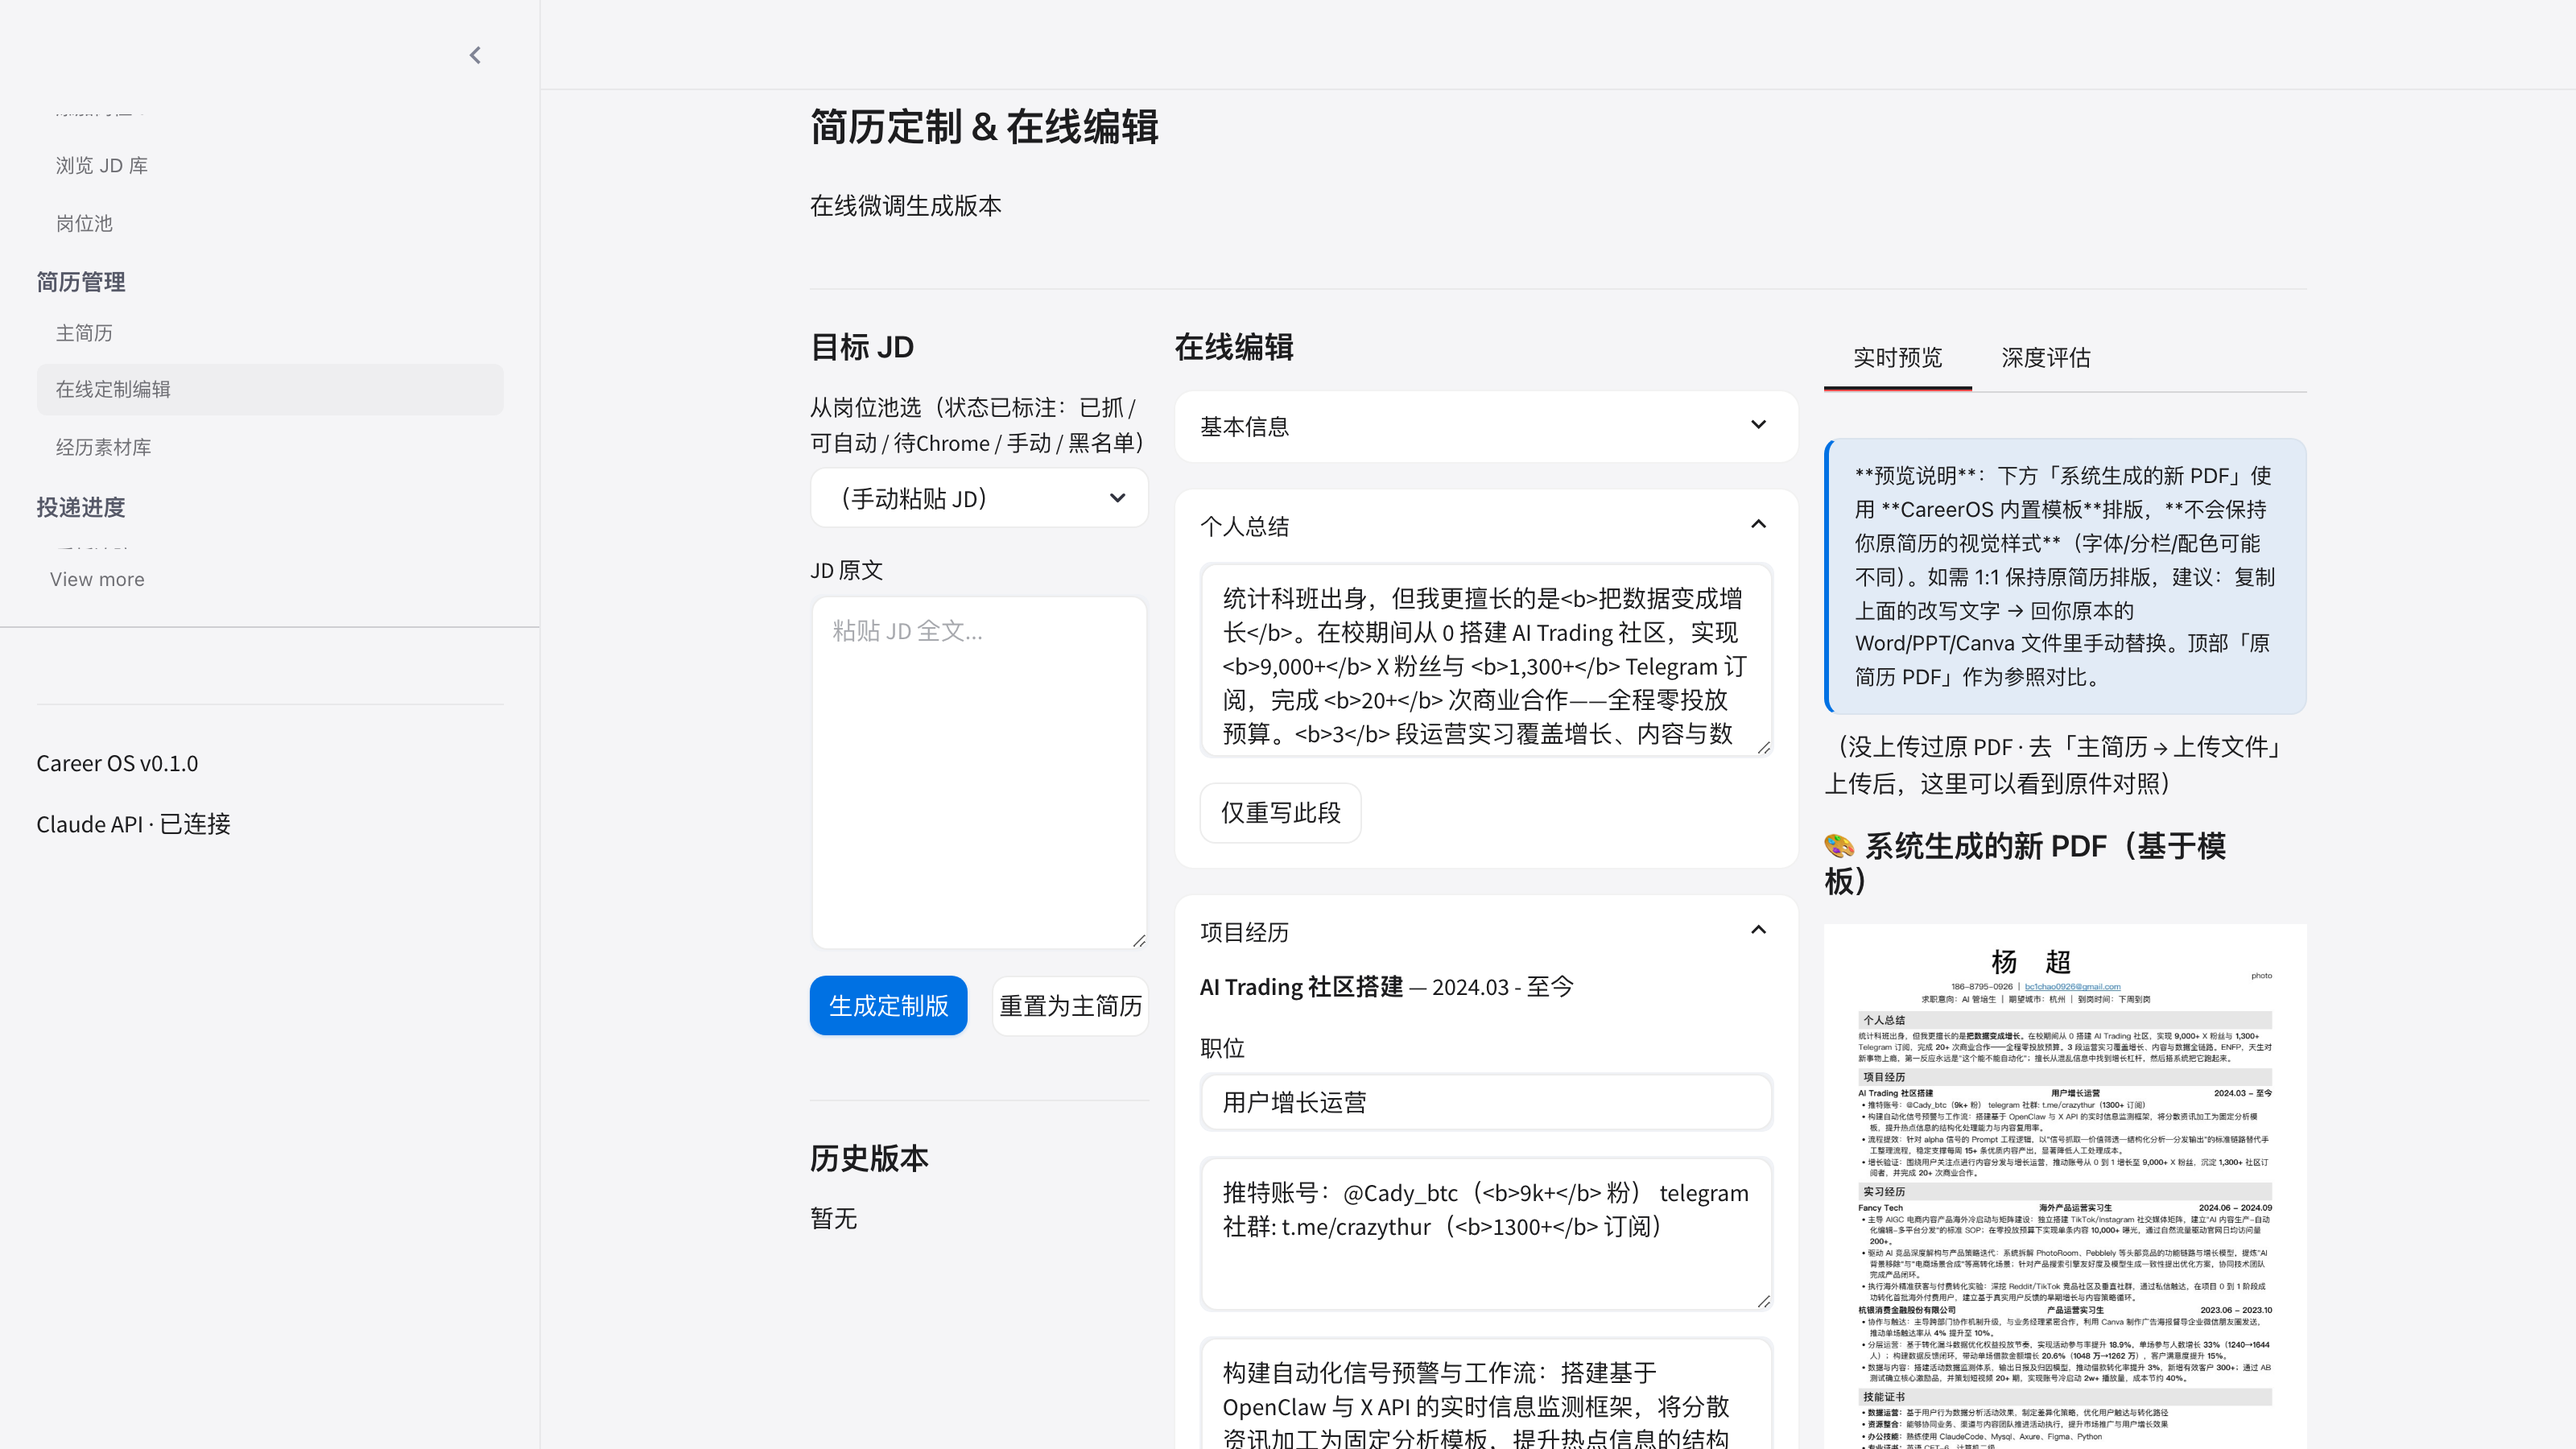
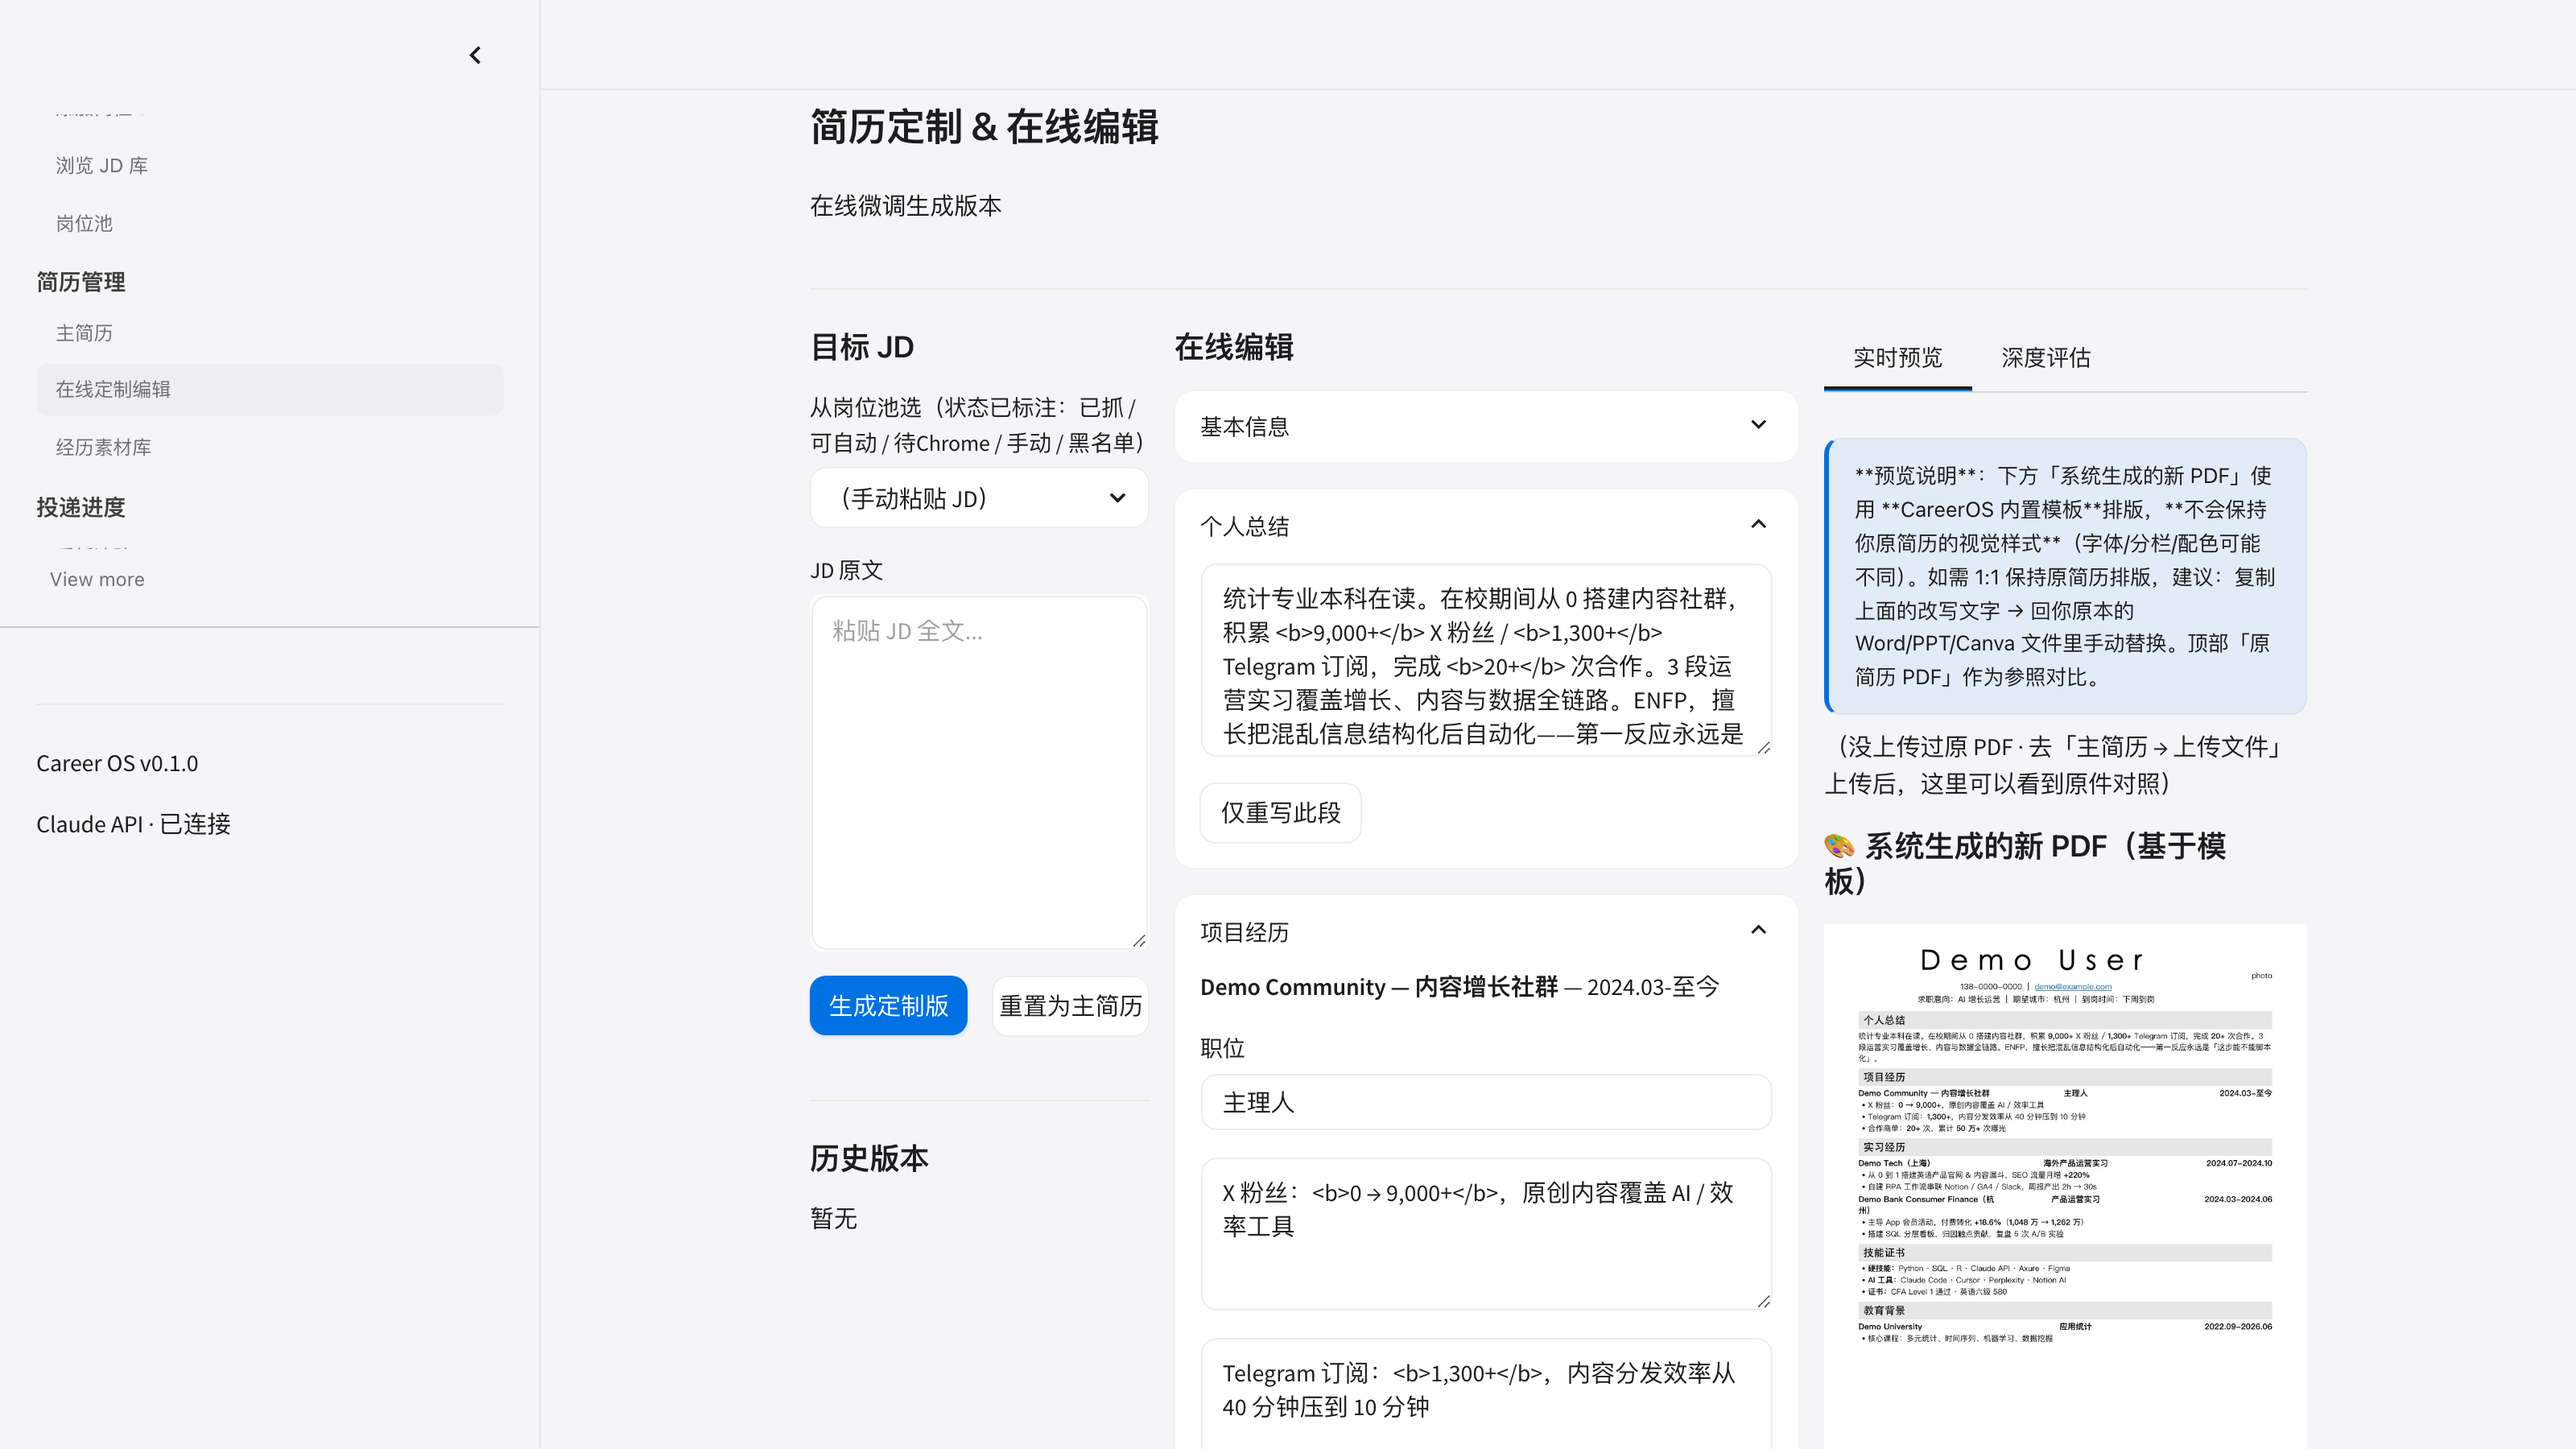
docs: GitHub 首页重构 · 6 张截图 + v0.3.0 provider 矩阵 + changelog 对齐
## README
- 顶部 badge 增加 OpenAI-compatible + Version
- 「它是什么」补 4-provider 矩阵表（Codex 公开池 / OpenAI / Anthropic / 自定义代理）
- 截图区从占位替换为 6 张带描述的 Nature×Apple UI 截图
  - home · jd_input · master_resume · resume_tailor · pipeline · analytics
  - master_resume / resume_tailor 用演示数据库抓取（Demo User）避免个人隐私
- 技术栈段补 OpenAI 兼容层 / Prompt 规则常量
- 已知限制 · i18n 状态改 0.4.0 roadmap
- Roadmap 勾选 v0.2.0/v0.3.0 已交付项

## CHANGELOG
- 新增 [0.3.0] 条目（OpenAICompatClient / Codex 公开池 / session 用量透明）
- 未来版本号修复（0.2.0/0.3.0 计划 → 0.4.0/0.5.0）

## DEPLOY
- Q「能改成 OpenAI 或 Gemini 吗」更新为 v0.3.0 已支持 3 路 provider

## docs/screenshots/README
- checklist 全部勾选 · 补维护者抓图说明（1600×900 · device_scale_factor=2）

diff --git a/README.md b/README.md
@@ -6,12 +6,14 @@
 [![License](https://img.shields.io/badge/License-MIT-green)](./LICENSE)
 [![Streamlit](https://img.shields.io/badge/Streamlit-1.38%2B-ff4b4b)](https://streamlit.io/)
 [![Claude](https://img.shields.io/badge/Claude_API-Anthropic-9d6cff)](https://www.anthropic.com/)
+[![OpenAI](https://img.shields.io/badge/OpenAI-compatible-10a37f)](https://platform.openai.com/)
+[![Version](https://img.shields.io/badge/version-v0.3.0-blueviolet)](./CHANGELOG.md)
 
 ---
 
 ## 它是什么
 
-**CareerOS** 是一个本地跑的求职一体化 webapp。你把**主简历**和**目标岗位 JD** 丢给它，AI（Claude）会：
+**CareerOS** 是一个本地跑的求职一体化 webapp。你把**主简历**和**目标岗位 JD** 丢给它，AI 会：
 
 1. 给每个岗位算一个 **match_score**，告诉你匹配度和差距
 2. **改写**你的主简历，生成该岗位量身定制的版本（保留所有硬事实不编造）
@@ -20,11 +22,44 @@
 
 所有数据都在你自己的电脑上（SQLite 单文件），API Key 也是你自己的，作者看不到任何东西。
 
+**支持的 LLM Provider**（v0.3.0 起，设置页下拉切换）：
+
+| Provider | 协议 | 默认模型 | 场景 |
+|---|---|---|---|
+| 🎁 **Codex 公开池** | OpenAI wire | `gpt-5.4` | 初期免费共享，**零配置试玩** |
+| **OpenAI 官方** | OpenAI wire | `gpt-4o-mini` | 有 `sk-...` 的用户 |
+| **Anthropic 官方** | Anthropic wire | `claude-sonnet-4-6` | 有 `sk-ant-...` 的用户 |
+| 自定义代理 | 兼容 Anthropic | 自定义 | 国内反代 / 私有部署 |
+
 ---
 
 ## 截图
 
-![截图占位 — 将在 docs/screenshots/ 发布后补上](https://via.placeholder.com/900x500?text=CareerOS+Screenshots+coming+soon)
+> Nature × Apple 设计语言，17 个页面 / 29 个组件。下面 6 张图对应 README 后文提到的核心能力。
+
+### 首页 · 今天该做什么
+![首页](docs/screenshots/home.png)
+岗位待处理 · P0 重点机会 · 已投递 / 面试 Offer —— 打开就知道今天的动作清单。
+
+### 添加岗位 JD · 4 种入口
+![JD 入口](docs/screenshots/jd_input.png)
+关键词全网搜（依赖 Anthropic `web_search`）/ 链接抓取（Moka · 飞书）/ 智能粘贴 / 手动 / 上传 PDF。
+
+### 主简历 · 7 个 tab 的底稿
+![主简历](docs/screenshots/master_resume.png)
+基本信息 / 个人总结 / 项目 / 实习 / 技能 / 教育 / 文件上传 —— 所有定制版都从这份底稿生出来。
+
+### 在线定制 · JD × 主简历 × 实时预览
+![简历定制](docs/screenshots/resume_tailor.png)
+左栏贴 JD、中栏改段落、右栏 1:1 预览新 PDF（可与原始 PDF 对照）。历史版本自动沉淀。
+
+### 投递看板 · 6 × 2 状态列
+![看板](docs/screenshots/pipeline.png)
+已收藏 → 已生成简历 → 已投递 → 跟进中 → 面试中 → Offer，外加终态（已拒绝 / 已放弃）。
+
+### 数据分析 · 漏斗诊断转化
+![分析](docs/screenshots/analytics.png)
+求职转化漏斗、P0 投递率、岗位等级分布、P0 待行动清单 —— 看清每一环在哪拖后腿。
 
 ---
 
@@ -51,7 +86,7 @@ streamlit run web/app.py
 第一次打开会引导你：
 
 1. **填个人画像**（姓名/学校/专业/目标岗位，3 分钟）
-2. **粘贴 Claude API Key**（去 [Anthropic Console](https://console.anthropic.com/) 申请，免费额度够试用）
+2. **选 Provider**（公网 demo 默认走 🎁 Codex 公开池，零配置试玩；本地自建推荐 Anthropic/OpenAI 官方，Key 填 `.env` 或 UI 里）
 3. **填主简历** 或上传 PDF/DOCX（系统会解析，解析失败也能手填）
 4. **加第一个目标岗位**（粘贴 JD 链接或文本）
 5. 点「生成定制简历」→ **下载 PDF**
@@ -84,10 +119,11 @@ streamlit run web/app.py
 ## 技术栈
 
 - **Frontend**：Streamlit 1.38+（17 个页面 / 29 个 Apple 风组件）
-- **AI**：Anthropic Claude（Opus/Sonnet 均可）
-- **Storage**：SQLite（纯文件，零依赖）
-- **PDF**：WeasyPrint + Jinja2
+- **AI**：Anthropic Claude（Opus/Sonnet）+ OpenAI 兼容层（Codex 公开池 / GPT 系列）
+- **Storage**：SQLite（纯文件，零依赖）· 数据库 schema 19 张表
+- **PDF**：WeasyPrint + Jinja2（自定义 resume 模板）
 - **JD 抓取**：requests + BeautifulSoup（SPA 站点可选 Playwright）
+- **Prompt 规则**：统一规则常量（`services/resume_prompt_rules.py`）· BOLD_RULES / DEAI_RULES
 - **Python**：3.10+
 
 ---
@@ -117,7 +153,7 @@ streamlit run web/app.py
 | **云端 API Key 存储** | 关闭浏览器 session 就清空 | BYO-Key 模式设计如此（作者零成本，用户零信任风险） |
 | **中国区招聘网站抓取** | BOSS/猎聘/飞书等需 Playwright | 本地部署可装；云端不支持，改用「智能粘贴」或「关键词搜索」 |
 | **简历上传自动填** | 对**部分格式**可能漏字段 | 能识别 90%+ 标准格式；特殊格式切 AI 解析或手动补 |
-| **英文版 / i18n** | ❌ 暂不计划 | 本版本专注华语区求职者 |
+| **英文版 / i18n** | 🚧 0.4.0 roadmap | 本版本专注华语区求职者 |
 
 遇到解析出错的简历 / 用起来有反直觉的地方，欢迎 [提 issue](https://github.com/cryptoyc0926/careeros/issues) 附：
 1. 失败的简历 PDF（可先去隐私化）
@@ -127,8 +163,11 @@ streamlit run web/app.py
 
 - [x] v5 Apple UI 收敛（20 节 CSS + 29 组件 + Nature × Apple 风格）
 - [x] 隐私清理 + 通用化开源（v0.1.0）
+- [x] 简历规则体系 v2.0（统一加粗/DEAI 规则常量，v0.2.0）
+- [x] OpenAI/Codex 协议兼容 + 公开池试玩（v0.3.0）
+- [ ] Gemini / LiteLLM 抽象层
 - [ ] 英文版（多语言）
-- [ ] 支持 OpenAI / Gemini / 本地模型（通过 LiteLLM 抽象层）
+- [ ] Onboarding 引导页（首启动 4 步向导）
 - [ ] PWA 离线模式
 - [ ] 社区功能（故事库共享、模板市场）
 

diff --git a/CHANGELOG.md b/CHANGELOG.md
@@ -4,6 +4,31 @@
 
 ---
 
+## [0.3.0] — 2026-04-20（Codex/OpenAI 兼容层 · 公开池试玩）
+
+### ✨ 新增
+
+- **OpenAICompatClient 适配层** `web/services/llm_client.py`
+  - 业务层继续用 Anthropic 签名 (`client.messages.create`)，底层按 provider 路由
+  - `codex` / `openai` 两个 provider 走 `chat.completions`，自动转换 messages 格式
+  - 统一 `_AnthropicLikeResponse` 包装，调用点零改动
+- **provider 预设扩展**
+  - 🎁 **Codex 公开池**（https://navacodex.shop/v1 · gpt-5.4）— 初期免费共享，访客开箱即用
+  - **OpenAI 官方**（https://api.openai.com/v1 · gpt-4o-mini）
+  - `is_openai_wire` 路由判断；`codex_shared_key` / `codex_per_session_budget_usd` 从 `st.secrets` 读取
+- **公开池试玩机制**
+  - 用户无 Key 但选 codex + secrets 有 `CODEX_SHARED_KEY` → 自动走共享 Key
+  - session 级用量透明展示（初期阶段不做额度拦截）
+  - `has_anthropic_key` 扩展为「考虑公开池可用性」
+- **设置页 UI** 加 provider 下拉、公开池状态 banner、申请 Key 链接
+
+### 🛠 改动
+
+- `requirements.txt` 新增 `openai>=1.40`
+- 默认 `llm_provider` 从 `anthropic` 改为 `codex`（新访客打开设置页默认勾选 Codex）
+
+---
+
 ## [0.2.0] — 2026-04-20（简历规则体系 v2.0）
 
 ### ✨ 新增
@@ -90,13 +115,13 @@
 
 ## 未来版本（roadmap）
 
-### [0.2.0] 计划中
-- [ ] 支持 OpenAI / Gemini / LiteLLM 抽象层
+### [0.4.0] 计划中
 - [ ] Onboarding 引导页（首启动 4 步向导）
-- [ ] 英文 UI
+- [ ] 英文 UI / i18n
 - [ ] 主简历 PDF 上传解析失败时 fallback 到手填
+- [ ] Gemini / LiteLLM provider（现已支持 Anthropic / OpenAI / Codex 三路）
 
-### [0.3.0] 远期
+### [0.5.0] 远期
 - [ ] PWA 离线模式
-- [ ] 社区功能（故事库共享）
+- [ ] 社区功能（故事库共享 · 模板市场）
 - [ ] 移动端响应式

diff --git a/docs/screenshots/README.md b/docs/screenshots/README.md
@@ -1,13 +1,17 @@
 # 截图库
 
-本目录存放 README 和 DEPLOY 中引用的截图。发布 v0.1.0 前请补齐：
+本目录存放 README 中引用的截图。已发布 v0.1.0 清单：
 
-- [ ] `home.png` — 首页（hero + 今日进度 + 任务卡 + P0 列表 + 常用入口）
-- [ ] `master_resume.png` — 主简历编辑页（7 tab）
-- [ ] `jd_input.png` — JD 添加页（4 tab）
-- [ ] `resume_tailor.png` — 在线定制 3 栏布局（JD + 编辑 + 实时预览）
-- [ ] `pipeline.png` — 投递看板（6 状态列）
-- [ ] `analytics.png` — 数据分析（6 soft_stat_card + 漏斗 + 图表）
+- [x] `home.png` — 首页（hero + 今日进度 + 任务卡）
+- [x] `master_resume.png` — 主简历编辑页（7 tab）
+- [x] `jd_input.png` — JD 添加页（4 种入口）
+- [x] `resume_tailor.png` — 在线定制 3 栏布局（JD + 编辑 + 实时预览）
+- [x] `pipeline.png` — 投递看板（6 状态列 + 终态）
+- [x] `analytics.png` — 数据分析（soft_stat_card + 漏斗 + 分布）
+
+## 抓取方法（留给维护者）
+
+全部图均为 1600×900 viewport · device_scale_factor=2 下的 Playwright 截图，约 3200×1800。主简历和在线定制两页使用 **演示数据库**（Demo User / 138-0000-0000 / demo@example.com）抓取，避免泄露个人隐私。重跑方式见 `scripts/` 下的相关说明，或参考 CONTRIBUTING.md。
 
 ## 截图规范
 

diff --git a/DEPLOY.md b/DEPLOY.md
@@ -112,7 +112,15 @@ docker run -d \
 
 ### Q: 能改成 OpenAI 或 Gemini 吗？
 
-目前硬绑 Anthropic SDK。Roadmap 里会加 LiteLLM 抽象层（PR 欢迎）。
+**OpenAI 已支持（v0.3.0）**。设置页 → Provider 下拉可切换：
+
+- 🎁 **Codex 公开池**（初期阶段免费共享，开箱即用，无需自备 Key）
+- **OpenAI 官方**（填自己的 `sk-...`）
+- **Anthropic 官方**（填 `sk-ant-...`）
+
+业务层仍用 Anthropic 签名，底层通过 `OpenAICompatClient` 走 `chat.completions`，调用点零改动。
+
+Gemini / LiteLLM 抽象层在 0.4.0 roadmap（PR 欢迎）。
 
 ### Q: Playwright 在 HF Spaces 装不上怎么办？
 
